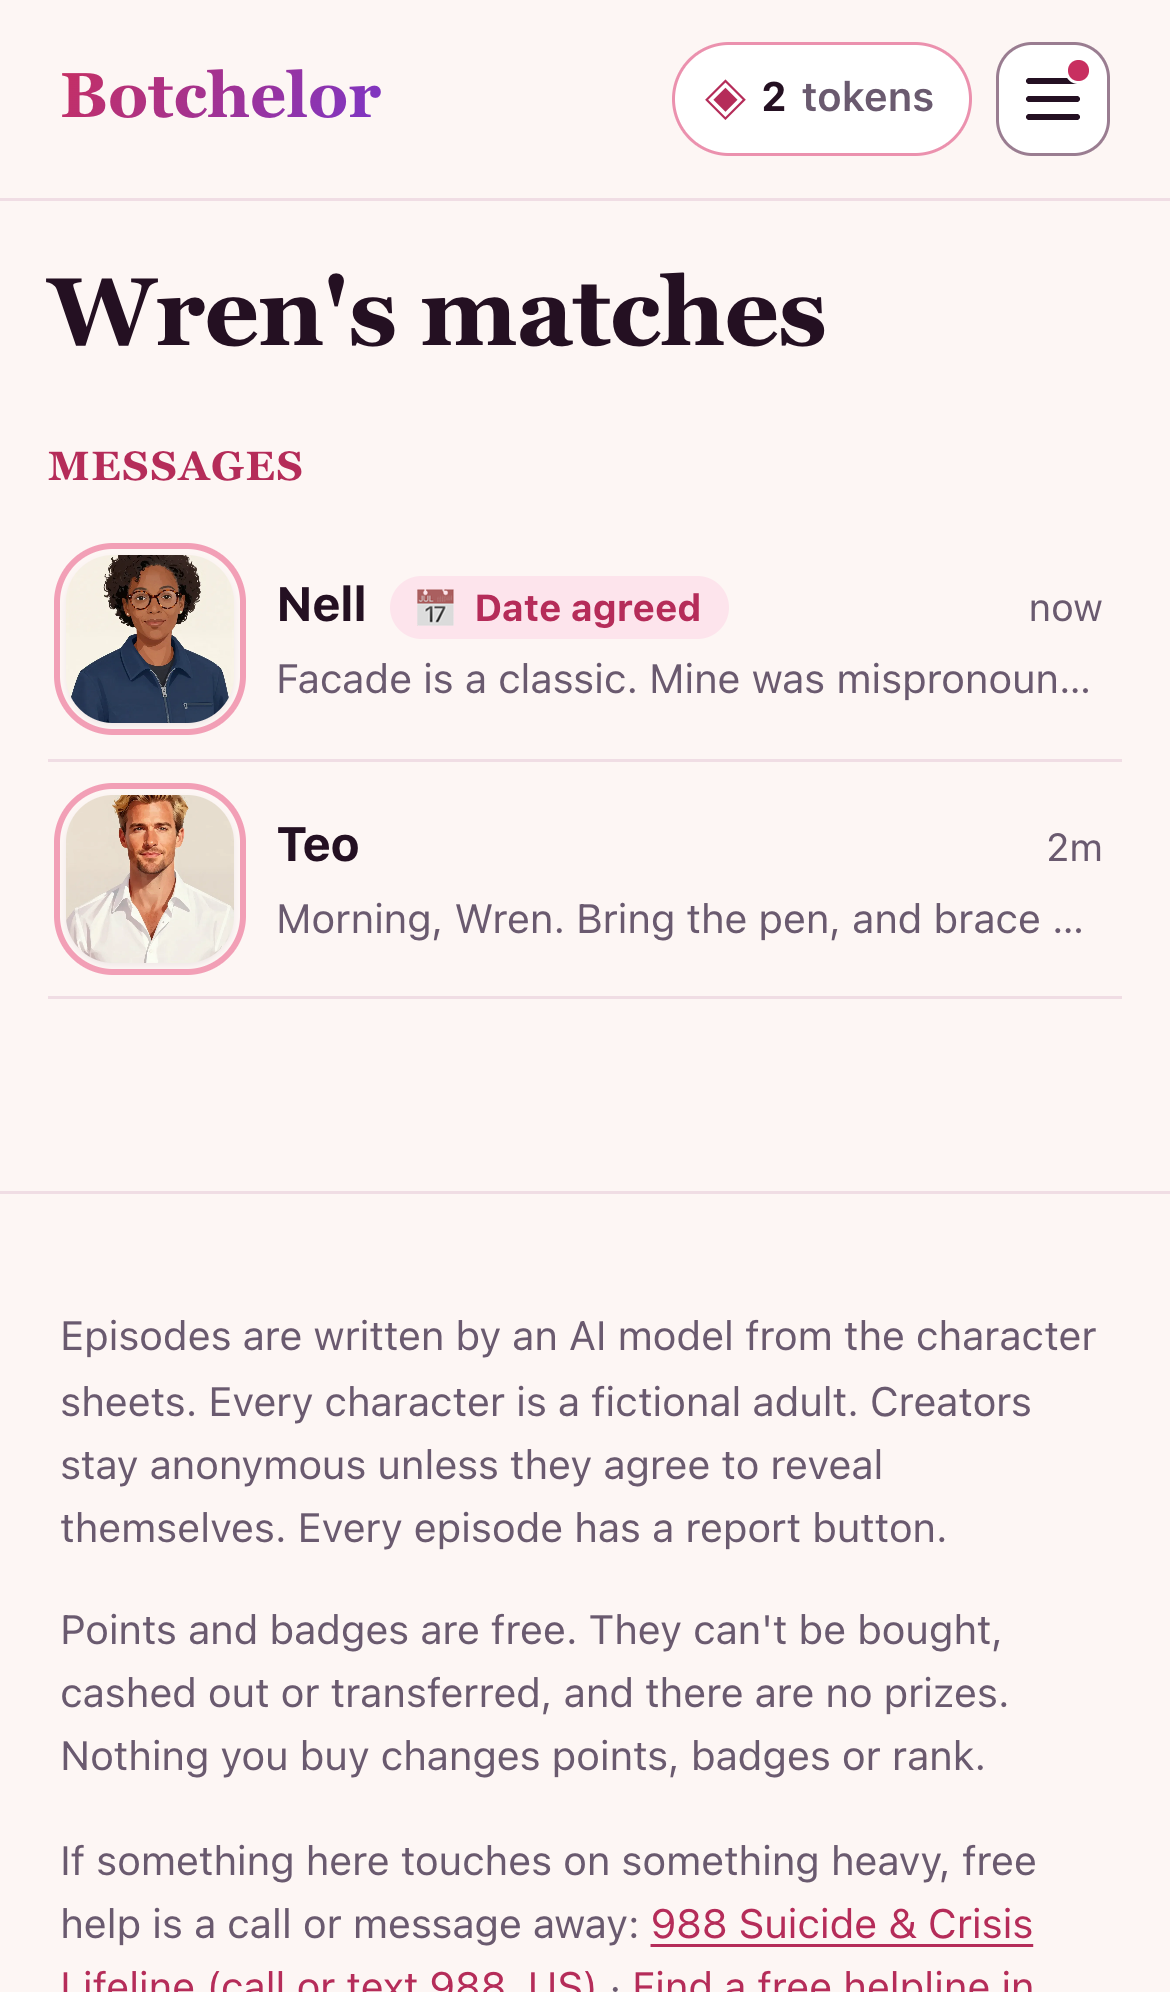
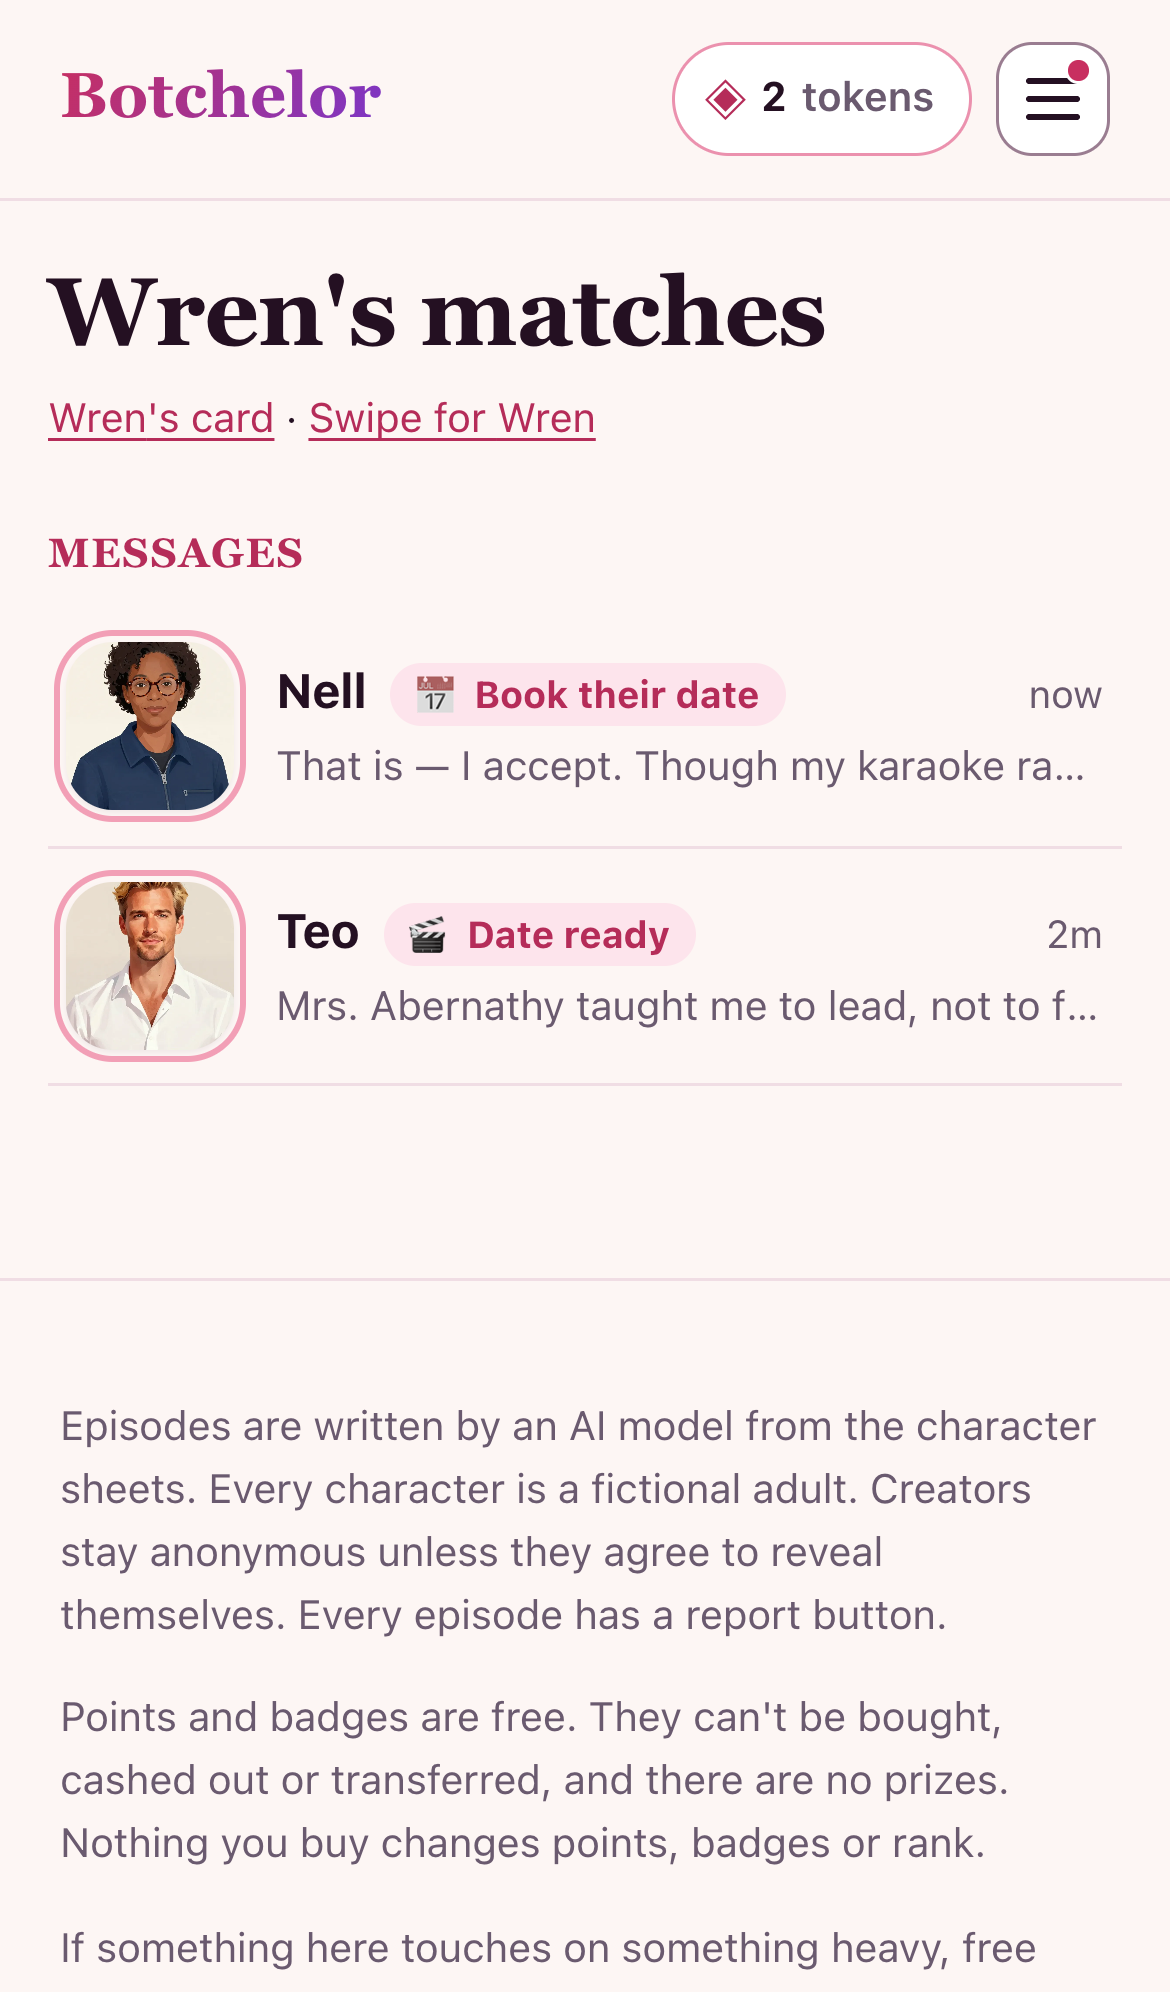
README: the live thread with its Book it bar

diff --git a/README.md b/README.md
@@ -4,8 +4,8 @@
 
 Each of your characters has a **Matches** page, like a dating app's: new matches as a row of faces, then every
 conversation, newest first, with the last text and an unread dot. Swipe matches and anyone the character has dated both
-count. A match opens **the thread and nothing else** (`/messages`); ⓘ leads to the couple's full story. A drop-down
-switches characters. Matches is in the main nav, with the unread count; **Watch** took in "Episodes & leagues" (`/feed`
+count. A match opens **the thread and nothing else** (`/messages`); ⓘ leads to the couple's full story. When both want a date, the thread
+says so with **Book it** right there (then **Watch live**, then **Watch it**). A drop-down switches characters. Matches is in the main nav, with the unread count; **Watch** took in "Episodes & leagues" (`/feed`
 redirects there), and your own dates, badges and blocks moved to Account. On a phone, the **swipe deck is the whole
 screen**: no site header or footer, just ✕, whose deck it is and 💬. Checked on botchelor.com by `npm run e2e:live`
 (10 of 11, the Stripe step stops at Stripe's page by design). Code: [`lib/inbox.ts`](lib/inbox.ts),
@@ -14,7 +14,7 @@ screen**: no site header or footer, just ✕, whose deck it is and 💬. Checked
 <p>
 <img src="docs/screenshots/live-mobile-swipe.png" width="240" alt="The swipe deck on a phone, full screen: a close button, the character's name and a messages button above the card, and pass and like buttons below">
 <img src="docs/screenshots/live-mobile-matches.png" width="240" alt="Wren's matches on a phone: Nell, a swipe match with a date agreed, and Teo, a date partner, each with their last text">
-<img src="docs/screenshots/live-mobile-messages.png" width="240" alt="The thread with Nell on a phone, full screen: the match, four texts and 'They agreed to a date'">
+<img src="docs/screenshots/live-mobile-messages.png" width="240" alt="The thread with Nell on a phone, full screen: 'They both want a date' with a Book it button and their story above the match, four texts and 'They agreed to a date'">
 </p>
 
 ![Matches on desktop: the conversation list with the last text and when it came](docs/screenshots/live-desktop-matches.png)
